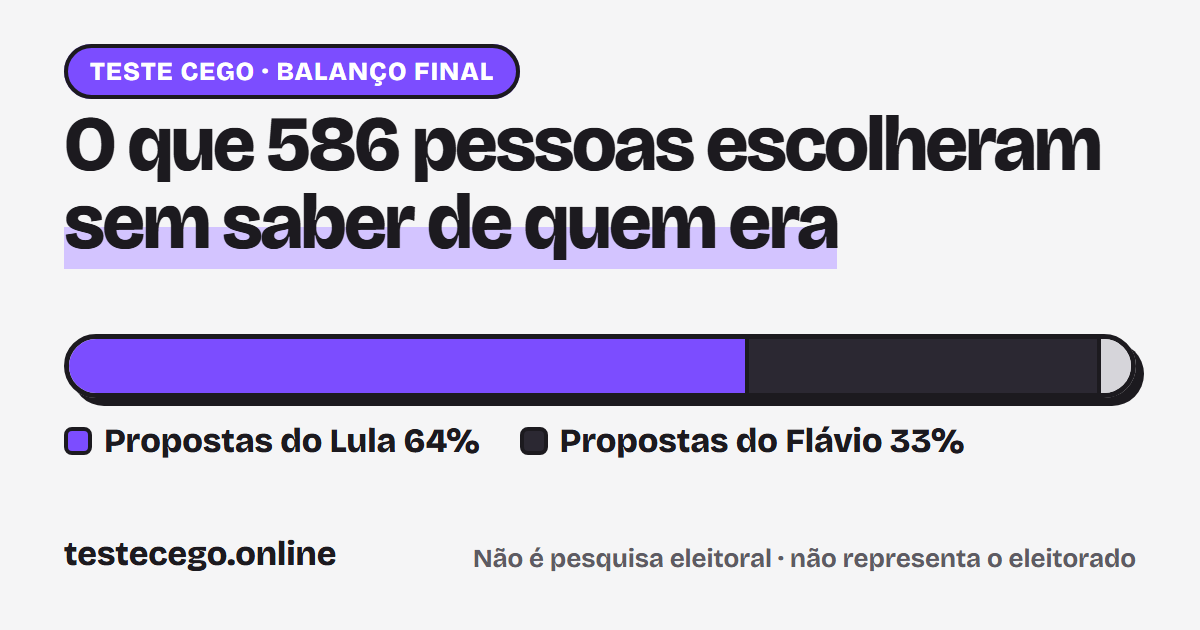
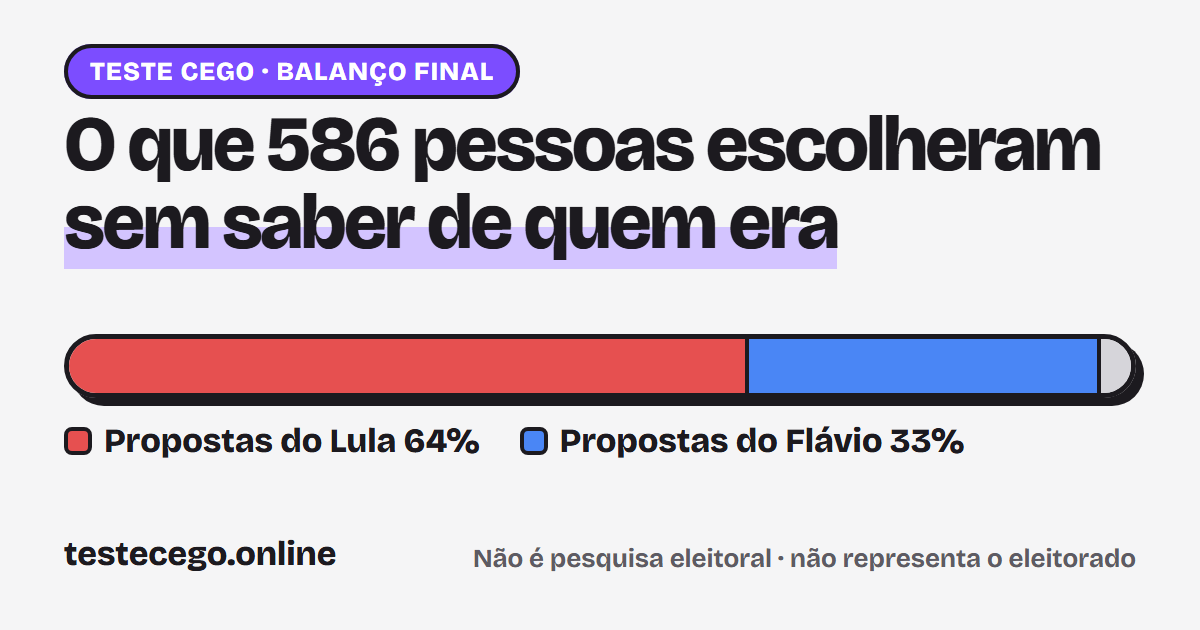
Balanço: vermelho para Lula e azul para Flávio em todos os gráficos

Changed region(s): [[0.0308, 0.5127, 0.925, 0.6333], [0.0308, 0.6635, 0.0925, 0.7238], [0.4317, 0.6635, 0.4625, 0.7238]]

diff --git a/index.html b/index.html
@@ -8,7 +8,7 @@
   <meta property="og:type" content="website">
   <meta property="og:title" content="O que as pessoas escolheram sem saber de quem era a proposta">
   <meta property="og:description" content="Balanço final do Teste cego das eleições 2026: 586 testes concluídos. Não é pesquisa eleitoral.">
-  <meta property="og:image" content="https://testecego.online/img/og.png?v=1.20">
+  <meta property="og:image" content="https://testecego.online/img/og.png?v=1.21">
   <meta property="og:image:width" content="1200">
   <meta property="og:image:height" content="630">
   <meta property="og:url" content="https://testecego.online/">
@@ -22,9 +22,9 @@
       document.documentElement.dataset.theme = tema;
     })();
   </script>
-  <link rel="icon" href="img/icone.svg?v=1.20" type="image/svg+xml">
+  <link rel="icon" href="img/icone.svg?v=1.21" type="image/svg+xml">
   <link rel="preload" href="fonts/bricolage-grotesque.woff2" as="font" type="font/woff2" crossorigin>
-  <link rel="stylesheet" href="css/style.css?v=1.20">
+  <link rel="stylesheet" href="css/style.css?v=1.21">
 </head>
 <body>
   <header class="topo">
@@ -47,8 +47,8 @@
     <section class="res-cartao">
       <h2>Com quem cada pessoa concordou mais</h2>
       <div class="placar">
-        <figure class="lado lider"><img src="img/lula-alegre.webp?v=1.20" alt="Caricatura de Lula" width="512" height="512"><figcaption><strong>65%</strong><span>Lula na frente</span></figcaption></figure>
-        <figure class="lado "><img src="img/flavio-serio.webp?v=1.20" alt="Caricatura de Flávio" width="512" height="512"><figcaption><strong>32%</strong><span>Flávio na frente</span></figcaption></figure>
+        <figure class="lado lider"><img src="img/lula-alegre.webp?v=1.21" alt="Caricatura de Lula" width="512" height="512"><figcaption><strong>65%</strong><span>Lula na frente</span></figcaption></figure>
+        <figure class="lado "><img src="img/flavio-serio.webp?v=1.21" alt="Caricatura de Flávio" width="512" height="512"><figcaption><strong>32%</strong><span>Flávio na frente</span></figcaption></figure>
       </div>
       <p class="res-nota">Em 3% dos testes deu empate. Conta 494 testes concluídos a partir de 9 de outubro, quando essa contagem começou.</p>
     </section>
@@ -86,7 +86,7 @@
       <p class="res-nota">Conta testes concluídos a partir de 10 de outubro, quando essa contagem começou.</p>
     </section>
 
-    <section class="res-cartao res-cores">
+    <section class="res-cartao">
       <h2>Rodada por rodada</h2>
       <p>Da proposta do Flávio mais escolhida para a menos escolhida. Onde o Flávio foi mais longe: “Terra para plantar”, “Bolsa Família e auxílios” e “Cadeias e penas”. Onde o Lula foi mais longe: “Minerais valiosos (terras raras)”, “Petrobras e empresas do governo” e “Escala 6x1”.</p>
       <ul class="res-legenda"><li><i class="res-l"></i>Lula</li><li><i class="res-f"></i>Flávio</li><li><i class="res-n"></i>Nenhuma das duas</li></ul>
@@ -209,6 +209,6 @@
     <a href="sobre.html">Como o teste funcionava, fontes e privacidade</a>
     <span>Projeto independente, sem vínculo com candidatos ou partidos. Dados de 26 de outubro de 2026.</span>
   </footer>
-  <script type="module" src="js/tema.js?v=1.20"></script>
+  <script type="module" src="js/tema.js?v=1.21"></script>
 </body>
 </html>

diff --git a/css/style.css b/css/style.css
@@ -474,7 +474,8 @@ body:has(.rodada) .rodape { display: none; }
   *, *::before, *::after { animation: none !important; transition: none !important; }
 }
 
-/* Página de resultados (balanço final, publicado depois da votação) */
+/* Página de resultados (balanço final, publicado depois da votação).
+   A pedido do Thiago, depois da eleição os gráficos usam vermelho para Lula e azul para Flávio. */
 .resultados { display: flex; flex-direction: column; gap: 22px; }
 .resultados h1 { font-size: clamp(2rem, 8.5vw, 3rem); }
 .res-aviso { padding: 12px 14px; border: 2.5px dashed var(--traco); border-radius: var(--raio); background: var(--papel); font-size: 0.95rem; }
@@ -485,8 +486,8 @@ body:has(.rodada) .rodape { display: none; }
 .res-nota { color: var(--suave); font-size: 0.88rem; }
 .res-barra { display: flex; height: 22px; border: 2.5px solid var(--traco); border-radius: 999px; overflow: hidden; background: var(--papel); }
 .res-barra span + span { border-left: 2px solid var(--traco); }
-.res-l { background: var(--realce); }
-.res-f { background: var(--principal); }
+.res-l { background: #e65050; }
+.res-f { background: #4a86f5; }
 .res-n { background: var(--linha); }
 .res-legenda { display: flex; flex-wrap: wrap; gap: 6px 16px; margin: 0; padding: 0; list-style: none; font-size: 0.92rem; }
 .res-legenda li { display: inline-flex; align-items: center; gap: 6px; margin: 0; }
@@ -511,6 +512,3 @@ body:has(.rodada) .rodape { display: none; }
 .res-numeros span { font-size: 0.82rem; font-weight: 700; color: var(--suave); line-height: 1.25; }
 .res-numeros strong { font: 800 clamp(2rem, 9vw, 2.6rem)/1.05 var(--titulo); font-variant-numeric: tabular-nums; letter-spacing: -0.02em; }
 .res-numeros small { font-size: 0.78rem; color: var(--suave); line-height: 1.3; }
-/* Exceção pedida pelo Thiago depois da eleição: "Rodada por rodada" em vermelho (Lula) e azul (Flávio) */
-.res-cores .res-l { background: #e65050; }
-.res-cores .res-f { background: #4a86f5; }

diff --git a/sobre.html b/sobre.html
@@ -13,8 +13,8 @@
       document.documentElement.dataset.theme = tema;
     })();
   </script>
-  <link rel="icon" href="img/icone.svg?v=1.20" type="image/svg+xml">
-  <link rel="stylesheet" href="css/style.css?v=1.20">
+  <link rel="icon" href="img/icone.svg?v=1.21" type="image/svg+xml">
+  <link rel="stylesheet" href="css/style.css?v=1.21">
 </head>
 <body>
   <header class="topo">
@@ -75,6 +75,6 @@
     <p>Projeto independente de Thiago Areias, sem vínculo com candidatos, partidos ou campanhas, sem financiamento e sem impulsionamento pago. O código e os dados são abertos no <a href="https://github.com/areiasthiago/teste-cego-eleitoral">GitHub</a>; correções são bem-vindas por lá.</p>
   </main>
   <footer class="rodape"><a href="./">Ver o balanço final</a><a href="https://palavraporpalavra.online/?o=tc">Conheça também o Palavra por Palavra</a></footer>
-  <script type="module" src="js/tema.js?v=1.20"></script>
+  <script type="module" src="js/tema.js?v=1.21"></script>
 </body>
 </html>

diff --git a/js/app.js b/js/app.js
@@ -1,7 +1,7 @@
-import { calcular } from './pontuacao.js?v=1.20';
-import { registrar, marcar, resultado } from './contagem.js?v=1.20';
-import { compartilhar } from './compartilhar.js?v=1.20';
-import { REINICIAR_AO_RECARREGAR } from './config.js?v=1.20';
+import { calcular } from './pontuacao.js?v=1.21';
+import { registrar, marcar, resultado } from './contagem.js?v=1.21';
+import { compartilhar } from './compartilhar.js?v=1.21';
+import { REINICIAR_AO_RECARREGAR } from './config.js?v=1.21';
 
 const CHAVE = 'teste-cego:v2';
 const app = document.getElementById('app');
@@ -255,7 +255,7 @@ function telaResultado() {
 }
 
 async function iniciar() {
-  dados = await (await fetch('data/rodadas.json?v=1.20')).json();
+  dados = await (await fetch('data/rodadas.json?v=1.21')).json();
   const validos = new Set(dados.rodadas.map((r) => r.id));
   estado = REINICIAR_AO_RECARREGAR ? null : lerEstado();
   // Estado salvo de uma versão com outras rodadas: completa a ordem em vez de zerar.

diff --git a/js/contagem.js b/js/contagem.js
@@ -1,4 +1,4 @@
-import { CONTAGEM, ENVIAR_CONTAGEM } from './config.js?v=1.20';
+import { CONTAGEM, ENVIAR_CONTAGEM } from './config.js?v=1.21';
 
 const MEDIDO = 'teste-cego:medido';
 const ORIGEM = 'teste-cego:origem';

diff --git a/js/compartilhar.js b/js/compartilhar.js
@@ -1,4 +1,4 @@
-import { SITE } from './config.js?v=1.20';
+import { SITE } from './config.js?v=1.21';
 
 // Formato de story (9:16), com respiro em cima e embaixo para a interface do aplicativo.
 const L = 1080;
